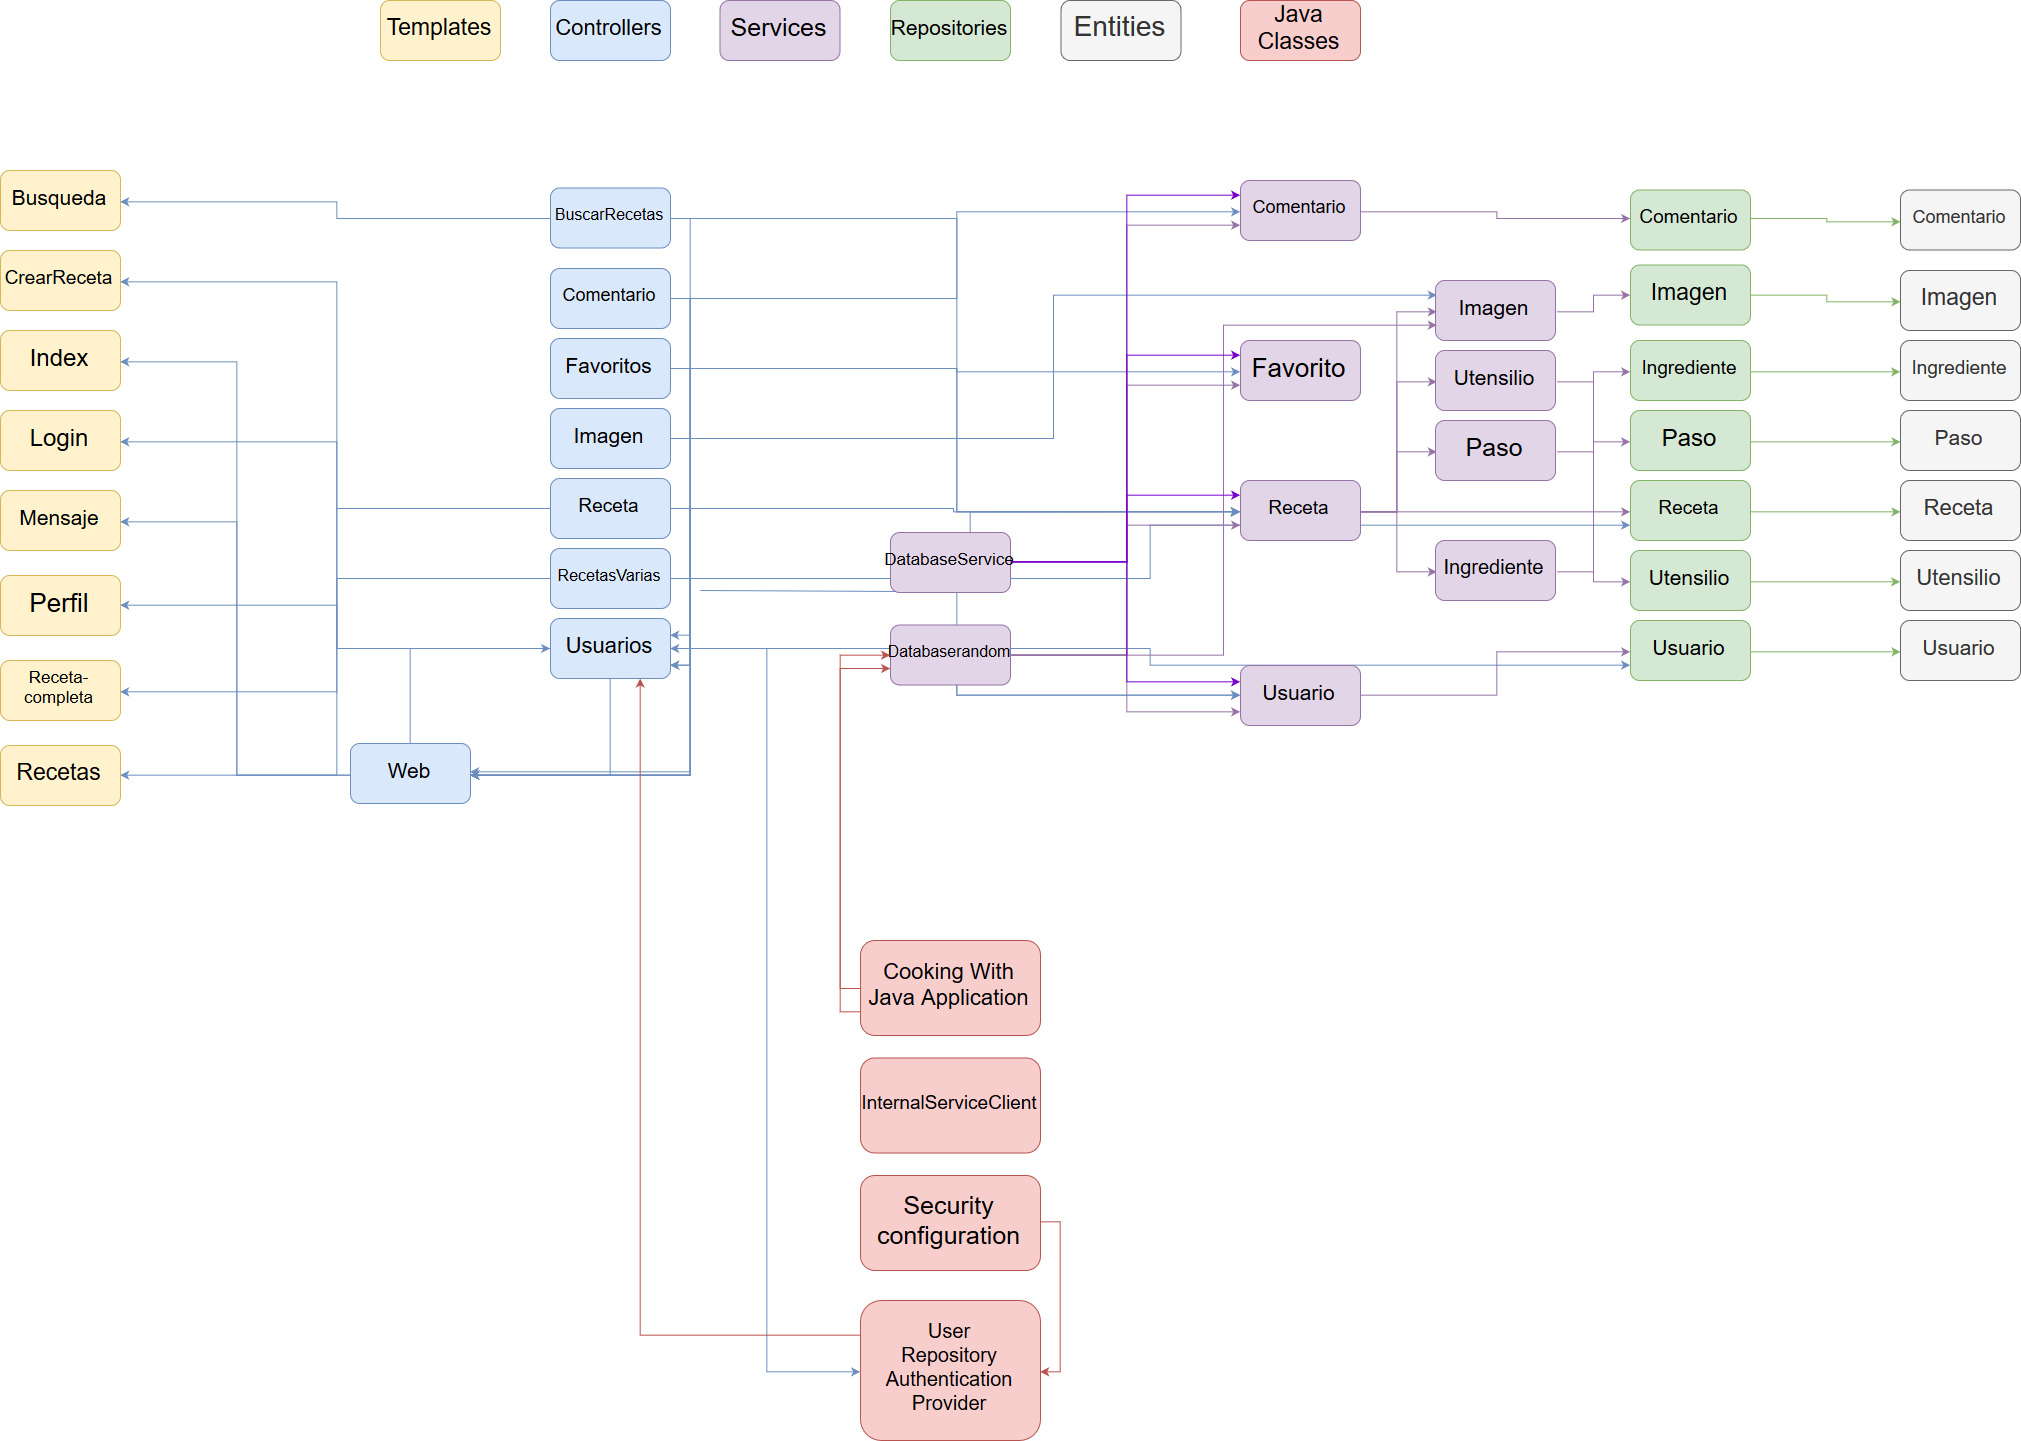
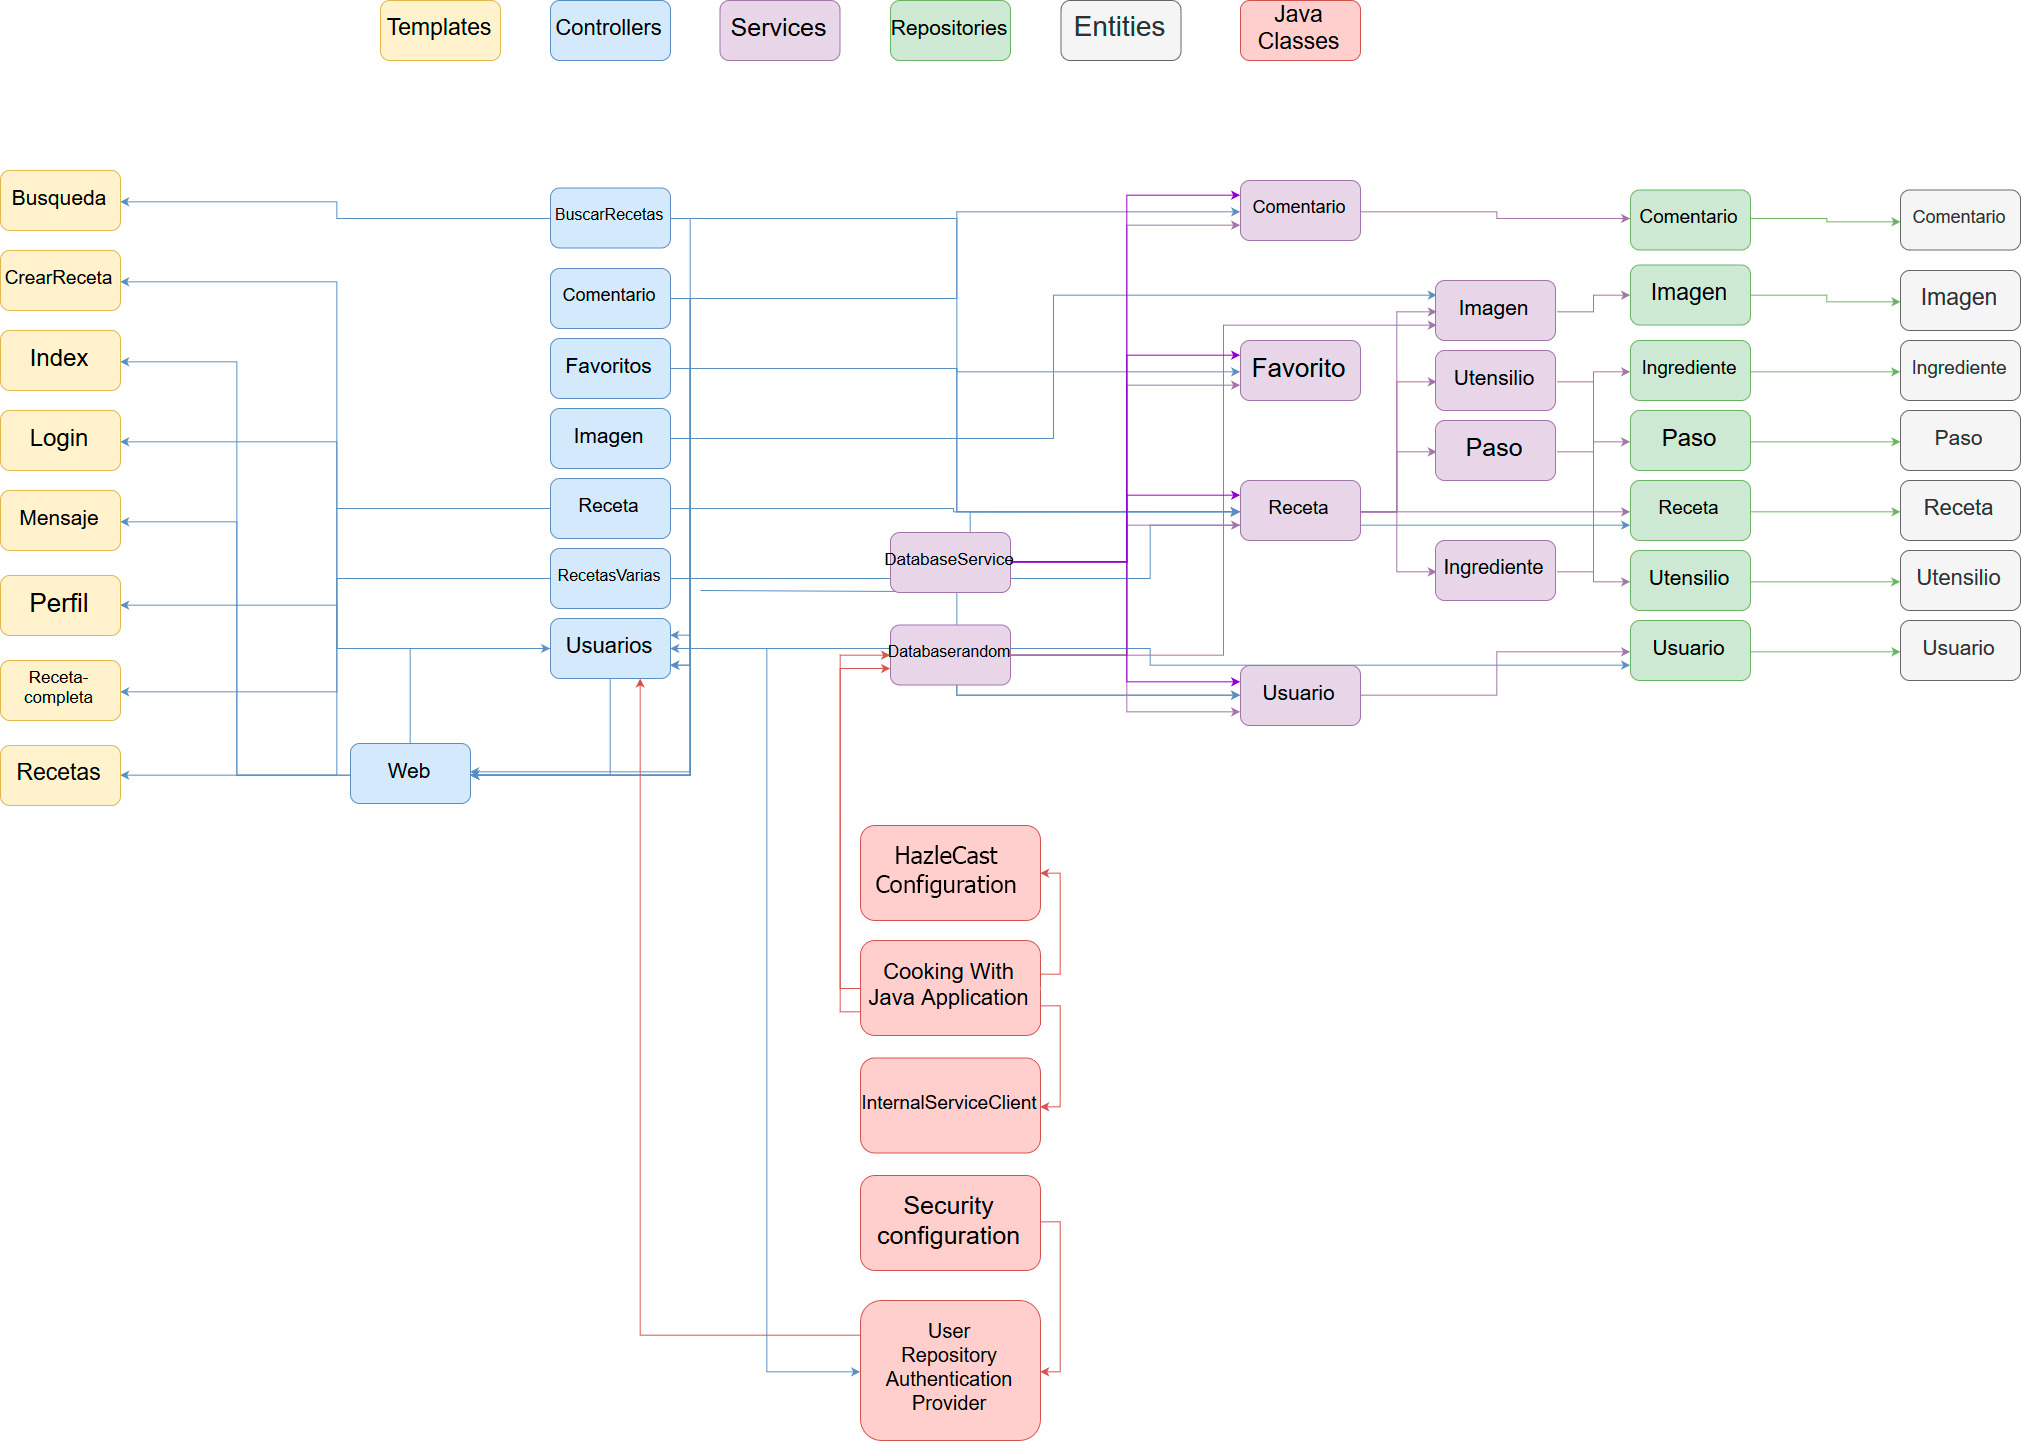
Actualizacion del readme
Modificado el diagrama de clases
Añadido la estructura en docker
Dejado un template para insertar el video de youtube.

Changed region(s): [[0.4052, 0.5621, 0.5299, 0.6558], [0.4364, 0.9993, 0.5299, 1.0]]

diff --git a/README.md b/README.md
@@ -25,7 +25,8 @@
       - [Intrucciones de despliegue en ubuntu 18.04 server usando docker](#intrucciones-de-despliegue-en-ubuntu-1804-server-usando-docker)
       - [Compilación](#compilaci%C3%B3n)
   - [FASE 4 - Incluir tolerancia a fallos en la aplicación](#fase-4---incluir-tolerancia-a-fallos-en-la-aplicaci%C3%B3n)
-  - [FASE 5 - Automatizar el despliegue de la aplicación.](#fase-5---automatizar-el-despliegue-de-la-aplicaci%C3%B3n)
+    - [Diagrama de despliegue en docker](#diagrama-de-despliegue-en-docker)
+    - [Video de demostración](#video-de-demostraci%C3%B3n)
 
 # CookingWithJava
 Este proyecto consiste en la práctica final de la asignatura de Desarrollo de Aplicaciones Distribuidas del grado de Ingeniería de Computadores de la URJC. Consistente en realizar una aplicación web de temática libre.
@@ -445,4 +446,13 @@ En caso de no usar los .jar ofrecidos y querer generarlos manulamente basta con 
 
 ## FASE 4 - Incluir tolerancia a fallos en la aplicación
 
-## FASE 5 - Automatizar el despliegue de la aplicación.
+### Diagrama de despliegue en docker
+![alt text](gddImages/diagrama_docker.jpg "Figura 14: Diagrama de despliegue de docker de la aplicación.")
+
+*Figura 19: Diagrama de despliegue en docker de la aplicación.*
+
+### Video de demostración
+<!--cambiar el video cambiando VIDIDHERE-->
+[![Alt text](https://img.youtube.com/vi/VIDIDHERE/0.jpg)](https://www.youtube.com/watch?v=VIDIDHERE)
+
+<https://youtu.be/VIDIDHERE>
